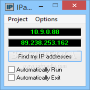
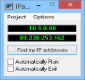
fixing the size of the buttons

diff --git a/css-files/user.css b/css-files/user.css
@@ -105,11 +105,9 @@ body{
 button:hover{
     transform: scale(1.3);
 }
-
-
-
-
-
+#check-button6,#check-button7{
+    width: 130px;
+}
 
 .string {
     position: relative;
@@ -125,7 +123,7 @@ button:hover{
     
 }
 .text2 p{
-    font-size: 30px;
+    font-size: 27px;
 }
 
 
@@ -154,7 +152,7 @@ button:hover{
 }
 #result{
     color: red;
-    font-size: 35px;
+    font-size: 30px;
 }
 
 
@@ -207,7 +205,7 @@ button:hover{
 }
 #result3{
     color: red;
-    font-size: 35px;
+    font-size: 30px;
 }
 
 
@@ -258,7 +256,7 @@ button:hover{
 }
 #result4{
     color: red;
-    font-size: 35px;
+    font-size: 33px;
 }
 
 
@@ -277,8 +275,9 @@ button:hover{
     
 }
 .text5 p{
-    font-size: 30px;
+    font-size: 25px;
 }
+
 
 
 .fifth{
@@ -309,7 +308,7 @@ button:hover{
 }
 #result5{
     color: red;
-    font-size: 35px;
+    font-size: 30px;
 }
 
 
@@ -320,7 +319,7 @@ button:hover{
     border-radius: 20px;
     width: 50%;
 
-    margin-top: 80px;
+    margin-top: 70px;
     margin-left: 400px;
     font-size: 40px;
     height: 100%;
@@ -420,9 +419,4 @@ button:hover{
     font-size: 40px;
     height: 100%;
     
-}
-.goodbye h1{
-    position: absolute;
-    top: 2800px;
-    left: 20%;
 }

diff --git a/html-files/user.html b/html-files/user.html
@@ -127,7 +127,7 @@
                     <label for="input6" class="label6">HERE:</label>
                     <input type="text" id="input6">
                     <button id="check-button6">GET ip address</button>
-                    <button id="check-button7">Check sum of even numbers</button>
+                    <button id="check-button7">sum of even </button>
                 
                     
                 </div> 
